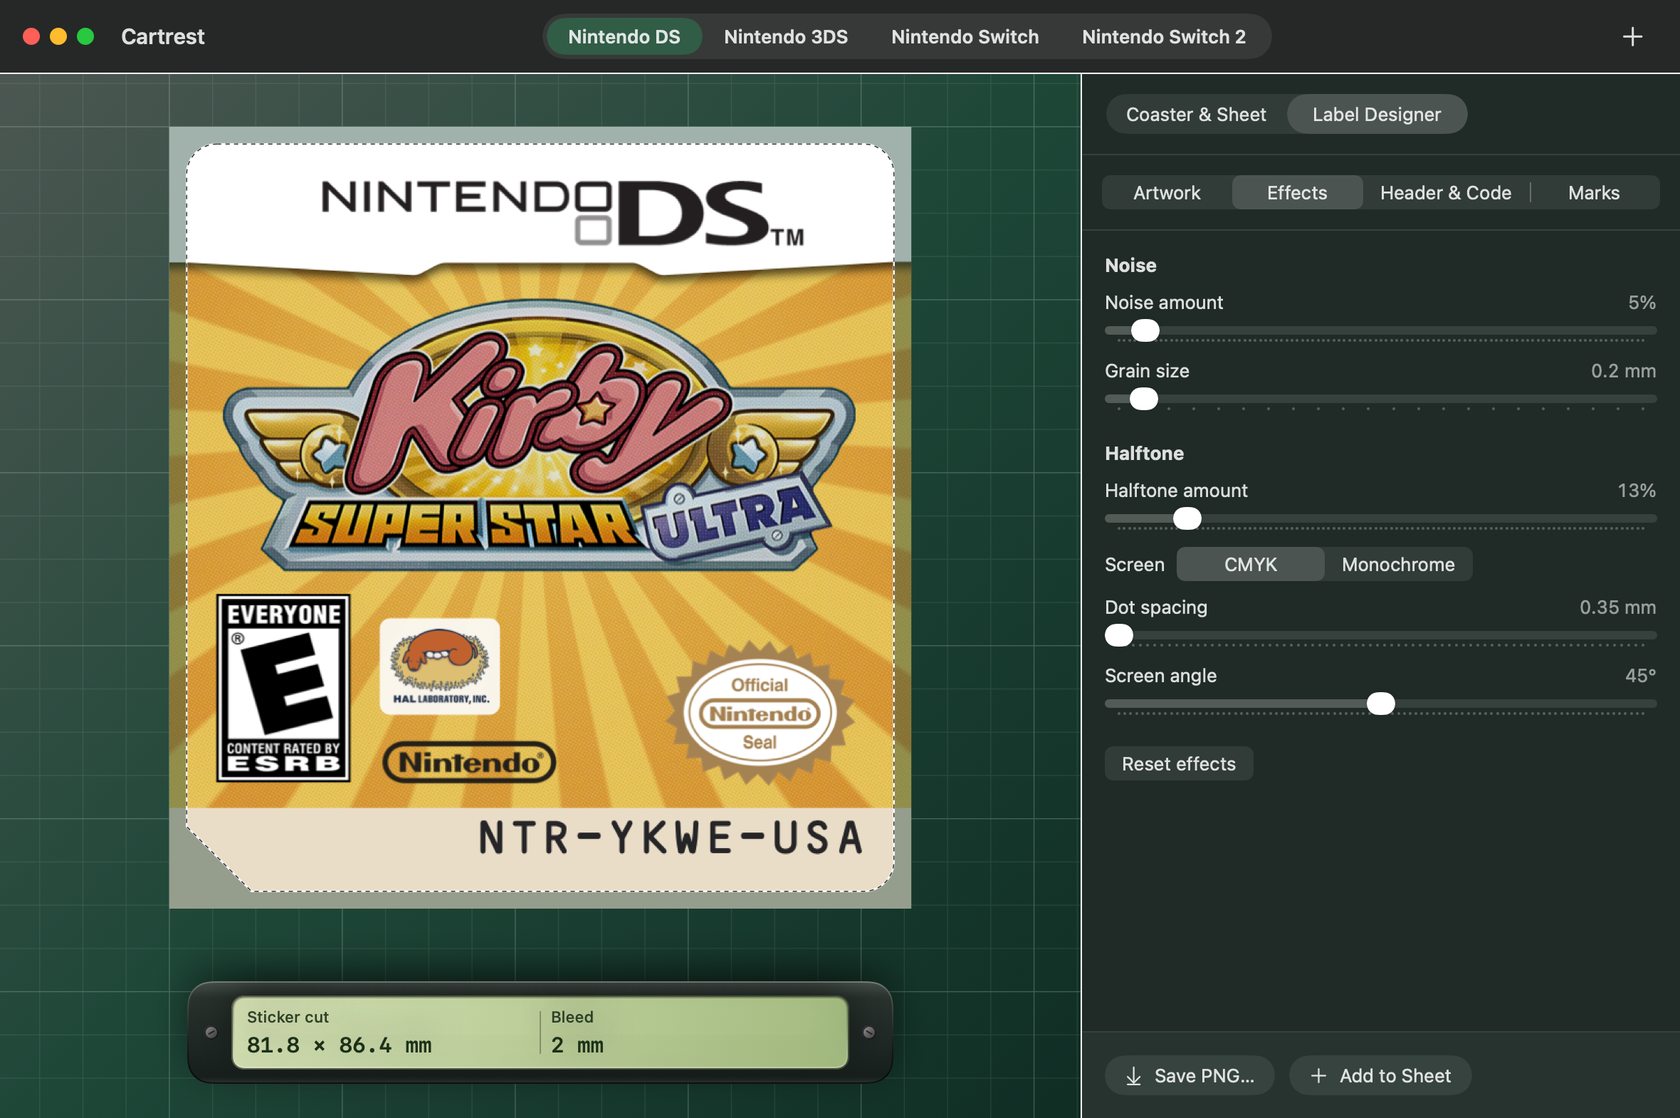
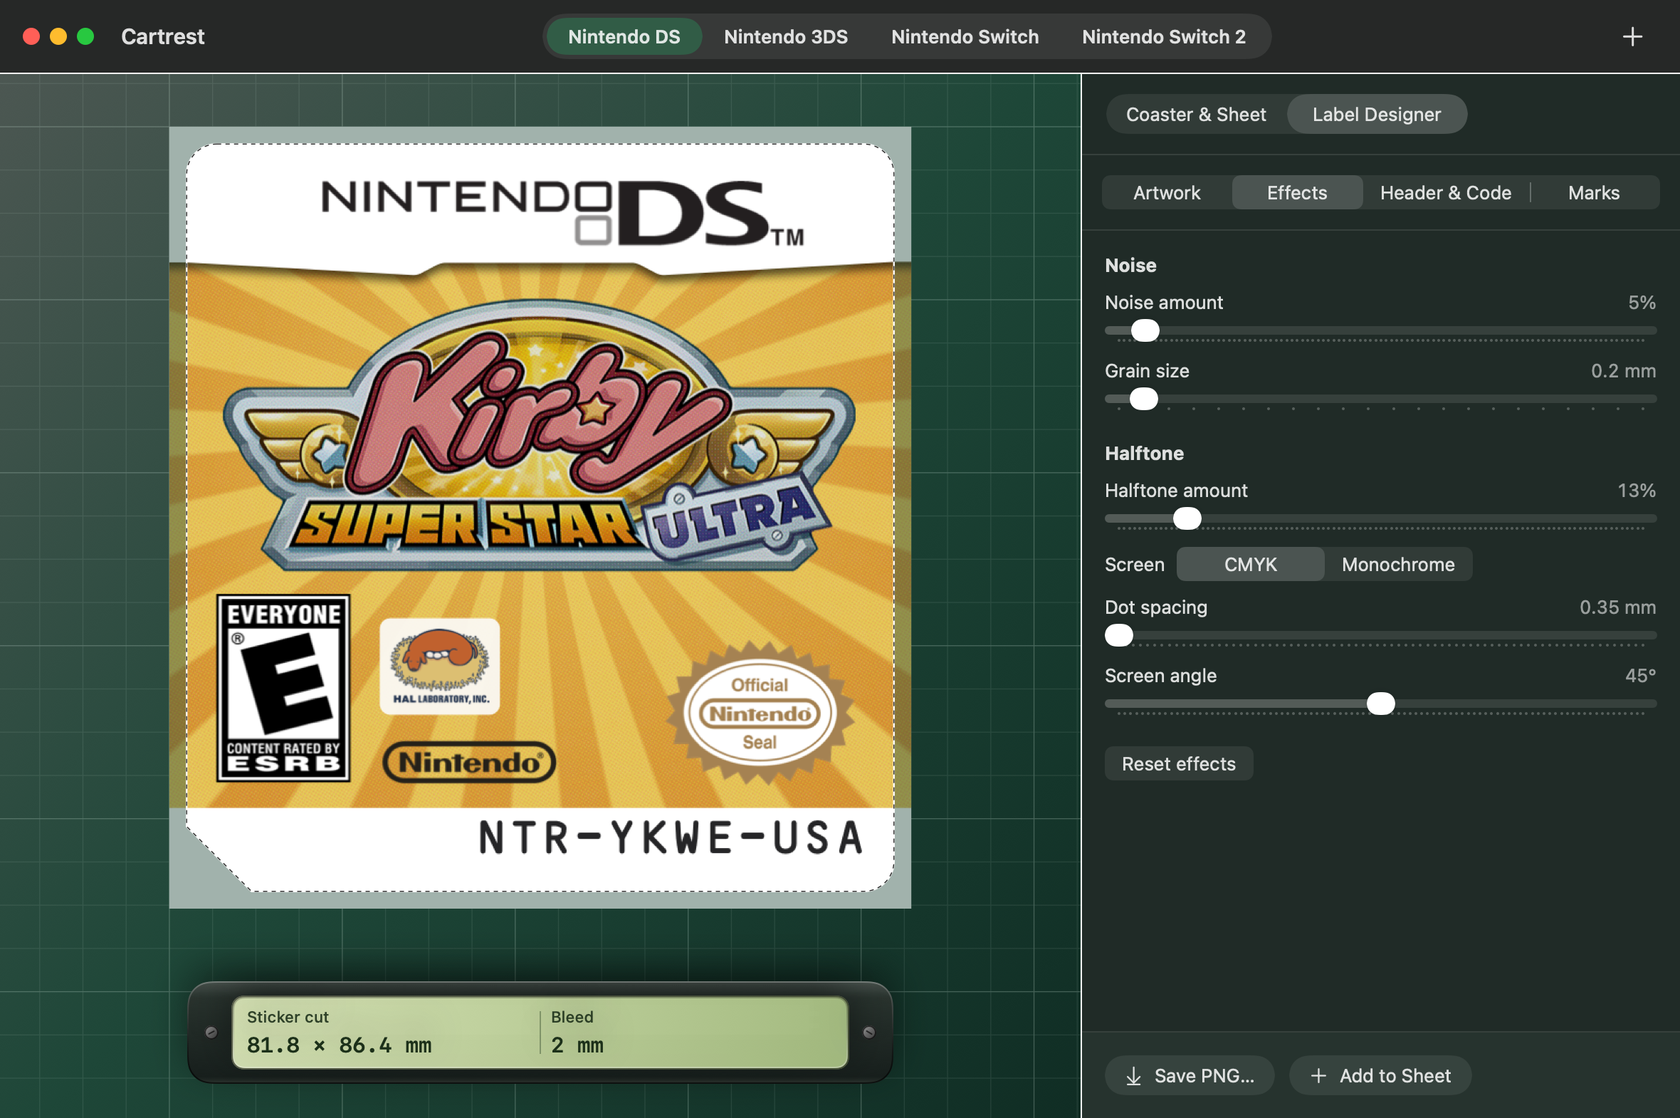
Use white bands in the Kirby reconstruction

Changed region(s): [[0.0929, 0.6995, 0.5571, 0.8211]]

diff --git a/examples/reconstructions/kirby-super-star-ultra/README.md b/examples/reconstructions/kirby-super-star-ultra/README.md
@@ -7,7 +7,7 @@ This study rebuilds the North American Nintendo DS label `NTR-YKWE-USA` for the 
 ## Rebuild the label
 
 1. In **Nintendo DS**, set the coaster width to **100 mm**, bleed to **2 mm**, and resolution to **300 dpi**. Open **Label Designer**, import `background.png`, and use **Fill** at the starting zoom and position. [Background PNG](background.png)
-2. Select **Nintendo DS · NTR** and **Shadow**. Set the band height to **91%** and logo size to about **109%**. Use white (`#FFFFFF`) for the band and `#E4D6BC` for the footer. Enter `NTR-YKWE-USA` with **Right** alignment and leave code size at its default.
+2. Select **Nintendo DS · NTR** and **Shadow**. Set the band height to **91%** and logo size to about **109%**. Use white (`#FFFFFF`) for the band and footer. Enter `NTR-YKWE-USA` with **Right** alignment and leave code size at its default.
 3. Place the marks using the values below. Horizontal and vertical positions run from the top-left of the trim. Size is relative to the role's starting size.
 4. Set noise to **5%**, grain to **0.20 mm**, and CMYK halftone to **13%** with **0.35 mm** dot spacing and a **45°** angle.
 5. Use **Add to Sheet** or **Save PNG…**. For the finished artwork, open `label.png` with **Add images…** in **Coaster & Sheet**. The two-copy A4 sheet includes the trim, bleed, and 50 mm ruler. [Finished PNG](label.png) · [A4 print sheet](../../../print/kirby-super-star-ultra-reconstructed-a4.pdf)
@@ -21,11 +21,11 @@ This study rebuilds the North American Nintendo DS label `NTR-YKWE-USA` for the 
 
 ## Comparison
 
-The reconstruction uses a shallow white band with a shadow that follows its stepped edge, a warm footer, and stacked HAL and Nintendo marks. The product code uses OCR-B as specified in Nintendo's DS production drawing. [Nintendo DS production drawing](https://repo.mariocube.com/Marketing/Nintendo%20Design%20Files/AIfiles/DS_L_Card_Label/DS_L_CardLabel.pdf) · [OCR-B credits](../../../design/labels/fonts/NOTICE.md)
+The reconstruction uses a shallow white band with a shadow that follows its stepped edge, a white footer, and stacked HAL and Nintendo marks. The product code uses OCR-B as specified in Nintendo's DS production drawing. [Nintendo DS production drawing](https://repo.mariocube.com/Marketing/Nintendo%20Design%20Files/AIfiles/DS_L_Card_Label/DS_L_CardLabel.pdf) · [OCR-B credits](../../../design/labels/fonts/NOTICE.md)
 
 ![Close-up of the original sticker and the reconstructed sticker at matching width.](../../../docs/images/kirby-label-details.jpg)
 
-The original sticker was perspective-normalized to an 800 × 845 pixel rectangle for comparison. In the crop, the original product code spans pixels 327–765 horizontally, and the reconstruction spans 332–763. The mean absolute RGB difference is **42.5** on a 0–255 scale across the central crop and **37.0** across the mark band. The lighting and wear visible in the photograph contribute to both values.
+The original sticker was perspective-normalized to an 800 × 845 pixel rectangle for comparison. In the crop, the original product code spans pixels 327–765 horizontally, and the reconstruction spans 332–763. The mean absolute RGB difference is **44.9** on a 0–255 scale across the central crop and **37.0** across the mark band. The lighting and wear visible in the photograph contribute to both values.
 
 The remaining visible differences include the sheen of the gold ink, the fine printed dot pattern, and the rim on the molded shell. The demonstration uses the coaster mesh and a digital print proof.
 

diff --git a/README.md b/README.md
@@ -47,7 +47,7 @@ Use **Add to Sheet** to place the result with your other artwork and open the A4
 
 ### Cartridge reconstruction
 
-The North American **Kirby Super Star Ultra** sticker was rebuilt in Cartrest from a separate title graphic, a measured sunburst, and era-specific marks. The retail photograph sits beside the reconstruction with its shadowed white header on the Nintendo DS coaster model.
+The North American **Kirby Super Star Ultra** sticker was rebuilt in Cartrest from a separate title graphic, a measured sunburst, and era-specific marks. The retail photograph sits beside the reconstruction with its white bands and shadowed header on the Nintendo DS coaster model.
 
 ![Kirby Super Star Ultra retail cartridge photograph beside the reconstructed Cartrest label.](docs/images/kirby-cartridge-comparison.jpg)
 
